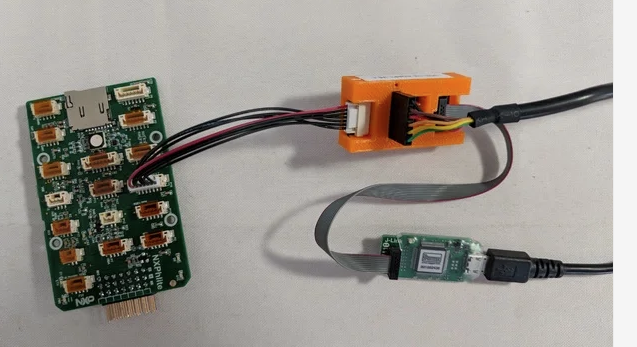
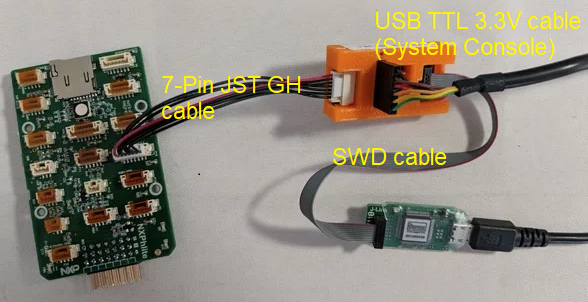
Tidy up

diff --git a/en/debug/jtag_pins.md b/en/debug/jtag_pins.md
@@ -1,18 +1,29 @@
-# JTAG Hardware Connections for PX4 Hardware (Debug Port)
+# Hardware Debug Interfaces (Debug Port)
 
-PX4 runs on hardware that exposes a [JTAG interface in SW mode](https://en.wikipedia.org/wiki/JTAG), which can be used for on-hardware debugging.
+PX4 runs on hardware that typically provides at least two interfaces for on-target (hardware) debugging:
+- **ARM Serial Wire Debug (SWD) interface**: This is an ARM-processor alternative to the JTAG interface.
+  It is used for debugging firmware, and can also be used to add a new bootloader and/or firmware on a completely empty board (that does not have the USB bootloader installed).
+- **[System Console](../debug/system_console.md) (UART)**: The system console provides low-level access to the system, debug output and analysis of the system boot process (other consoles are available from telemetry/USB etc, but these do not provide such early access to boot sequence information).
 
-This topic explains how to connect to the JTAG interface on various boards.
-Using JTAG for debugging is then covered in other topics (e.g [MCU Eclipse/J-Link Debugging for PX4](../debug/eclipse_jlink.md)).
+On Pixhawk-series boards these interfaces are usually exposed through a single port (though older boards may separate them).
+On other boards, these may be separate.
 
-> **Tip** The Segger [J-Link EDU Mini](https://www.segger.com/products/debug-probes/j-link/models/j-link-edu-mini/) is an inexpensive J-Link adapter.
-  [![Segger JLink EDU Mini Pinout](../../assets/debug/jlink_edu_mini.jpg)](ttps://www.segger.com/products/debug-probes/j-link/models/j-link-edu-mini/)
+> **Tip** Some boards may include additional interfaces.
+  For example, Pixhawk FMUv5 will support Google ARM ETM Trace through a separate interface.
+  
+This topic explains how to connect the system console, SWD interface, and other interfaces on different boards (actually performing the debugging is then covered in the associated [debugging topics](#debugging_topics)).
 
+## Interface Overview
 
-## JTAG SW Modes Pins
+### System Console
 
-PX4 requires the following pins for JTAG.
-The pins should be connected on the corresponding pins of the flight controller board and JTAG device.
+The PX4 *System Console* is simply a UART that has specifically been configured for this purpose (in NuttX) on a particular board.
+You will need to connect the TX, RX and GND to your computer, either via an FTDI cable (converts UART TX/RX to USB serial), [Dronecode Probe](#dronecode_probe), or similar adapter.
+
+### Serial Wire Debug (SWD) Interface
+
+PX4 requires the following pins for SWD.
+The pins should be connected on the corresponding pins of the flight controller board and SWD/JTAG device.
 
 Pin | Signal Type | Description
 --- | --- | ---
@@ -33,31 +44,94 @@ TRACEDATA[0] | Input | Input Trace data pin 0 (called TRACED0 in Pixhawk FMUv5x)
 >  **Note** The information above is reproduced from [J-Link / J-Trace User Guide: UM08001 > 18.1.2 Pinout for SW Mode](https://www.segger.com/downloads/jlink/UM08001) (Software Version: 6.54).
 
 
-## Pixhawk Series
+## Adapters and Wiring {#adapters_and_wiring}
 
-[Pixhawk series](https://docs.px4.io/master/en/flight_controller/pixhawk_series.html) boards provide access to JTAG through the **Pixhawk Debug Port**.
-The physical connector and pin order for this port varies across Pixhawk FMU versions.
+Where possible, we highly recommend that you use adapter boards rather than custom cables for connecting to SWD/JTAG debuggers and computers.
+This reduces the risk or poor wiring contributing to debugging problems, and has the benefit that adapters usually provide a common interface for connecting to multiple popular flight controller boards.
 
-> **Note** The **Pixhawk Debug Port** also exposes a UART for access to the [System Console](../debug/system_console.md) (a console that provides low-level access to the system, debug output and analysis of the system boot process).
+The following section outlines some of the available adaptors, and the boards you might use with them.
 
-<!--
-### FMUv2
+### Dronecode Probe (Adapter) {#dronecode_probe}
 
-Does this have a debug port? where is spec
-Is it a Hirose DF13
+[Dronecode Probe](https://kb.zubax.com/display/MAINKB/Dronecode+Probe+documentation) is a generic JTAG/SWD + UART console adapter compatible with most ARM Cortex based designs and in particular with the hardware maintained by the Dronecode project.
+
+The probe's USB interface exposes two separate virtual serial port interfaces: one for connecting to the System Console (UART) and the other for an embedded GDB server (SWD interface).
+The probe is compliant with the [Pixhawk Connector Standard](https://pixhawk.org/pixhawk-connector-standard/) and provides cabling to connect to the [Pixhawk Debug port](https://pixhawk.org/pixhawk-connector-standard/#dronecode_debug), which is used on many Pixhawk flight controllers.
+
+This can directly be used with:
+- Dronecode connector (6-pos JST SM06B connector to DEBUG port).
+  - [mRo Pixracer](https://docs.px4.io/master/en/flight_controller/pixracer.html#debug-port-jst-sm06b-connector) (FMUv4)
+  - [Drotek Pixhawk v3](https://drotek.gitbook.io/pixhawk-3-pro/hardware/inputs-outputs) (FMUv4pro)
+  - [Holybro Pixhawk 4](https://docs.px4.io/master/en/flight_controller/pixhawk4.html#debug-port) (FMUv5)
+  - [Holybro Pixhawk 4 mini](https://docs.px4.io/master/en/flight_controller/pixhawk4_mini.html#debug-port) (FMUv5)
+  - [CUAV V5](https://docs.px4.io/master/en/flight_controller/cuav_v5.html#debug-port)
+  
+  
+  - [CUAV V5+](https://docs.px4.io/master/en/flight_controller/cuav_v5_plus.html#debug-port)  [Using JTAG for Hardware debugging](
+  
+  - [CUAV V5 nano]()
+
+- 6-pos DF13 1:1 cable on the Dronecode probe to the Pixhawk SERIAL4/5 port.
+  **Note** This allows you to debug the System Console only.
+
+> **Note** The *Dronecode Probe* is based on the [Black Magic Probe](#black_magic_probe).
+  
+### Black Magic Probe {#black_magic_probe}
+
+The [Black Magic Probe](https://github.com/blacksphere/blackmagic/wiki) offers similar SWD debug-functionality to the [Dronecode probe](#dronecode_probe).
+However this is not designed with Pixhawk standards in mind, so specific custom cabling will be required to interface with the SWD port (and to separately expose the *System Console*).
+
+### NXP Debug Adapter {#nxp_dapter}
+
+NXP provide a debug adaptor for the [Hovergames RDDRONE-FMUK66](#fmuk66) (see below).
+This connects to the RDDRONE-FMUK66 using a 7-pin JST-GH connector and splits out an SWD cable and UART cable (for the system console).
+
+![Debug RDDRONE-FMUK66 using Jlink and debug interface](../../assets/debug/jlink_hovergames.png)
+
+This can directly be used with:
+* [Hovergames RDDRONE-FMUK66](#fmuk66)
 
 
-### FMUv3
+### Custom Cables
 
-Does this have a debug port? where is spec
-Is it a Hirose DF13
--->
+You can also create or build your own cables for the board you want to use (some might have a "Pixkawk debug connector" while others might have special connectors, or just pads.
 
-### FMUv4/FMUv5
+![Cables](../../assets/debug/just_cables.jpg)
 
-FMU V4,5 has a 6 pin JST GH
+> **Note** If you only want to use the console, or only SWD, there is nothing to stop you just connecting to the relevant pins for each interface.
 
-[Pixracer](http://docs.px4.io/master/en/flight_controller/pixracer.html#pinouts): [Pixhawk debug port](https://pixhawk.org/pixhawk-connector-standard/#dronecode_debug) (JST SM06B connector)
+
+## Pixhawk Series {#pixhawk_series}
+
+[Pixhawk-series](https://docs.px4.io/master/en/flight_controller/pixhawk_series.html) boards from FMUv3 provide access to both SWD and System Console interfaces through a single FMU **DEBUG** port.
+This can be used to load new bootloader/FMU Firmware and perform on-hardware SWD debugging on the FMU, or to access the System Console.
+
+The **DEBUG** has changed and standardised across versions (so no single connector works on all boards)
+- P  [Pixhawk debug port](https://pixhawk.org/pixhawk-connector-standard/#dronecode_debug) (JST SM06B connector).
+
+> **Note** Many boards may also expose a separate DEBUG port for the IO board.
+  This may be used to load a new bootloader or IO firmware.
+  It can also be used to debug IO (this is rare).
+
+
+### FMUv3 Pro
+
+FMUv3 Pro (and specifically the ) specifies the [Pixhawk debug port](https://pixhawk.org/pixhawk-connector-standard/#dronecode_debug) (JST SM06B connector).
+
+You can therefore connect to it using a [Dronecode probe](#dronecode_probe) or other cabling or adapter that provides access to the interfaces.
+
+
+### FMUv3 Pro FMUv4/FMUv5
+
+FMUv4 and FMUv5 specify the [Pixhawk debug port](https://pixhawk.org/pixhawk-connector-standard/#dronecode_debug).
+You can therefore connect to it using a [Dronecode probe](#dronecode_probe) or other cabling or adapter that provides access to the interfaces.
+
+Applicable boards include:
+- Drotek Pixhawk 3 Pro (FMUv3pro)
+- [mRo Pixracer](http://docs.px4.io/master/en/flight_controller/pixracer.html#pinouts) (FMUv4)
+
+
+The debug port (JST SM06B connector) is documented for each board, and has the following pinout:
 
 Pin | Signal | Volt
 --- | --- | ---
@@ -71,11 +145,11 @@ Pin | Signal | Volt
 
 ### FMUv5X
 
-FMUv5X will have a [10-pin JST SUR](https://order.jst-mfg.com/InternetShop/app/index.php?back=2&product=53574000&jgcd=0#showProductDetail).
-It adds JTAG pins: SWO, nRST. TRACECLK, TRACED0 Pins 7 and 8 are GPIOS to gate timing or 1 wire trace (full trace is on).
-<!-- is this link/example correct type for connector? -->
+FMUv5X will have a new debug port definition, which uses a [10-pin JST SUR](https://www.digikey.com/product-detail/en/jst-sales-america-inc/A10SUR10SUR32W152B/455-4015-ND).
 
-FMU Debug Port Pinout
+The new pinout adds additional SWD pins: SWO, nRST. It also adds TRACECLK, TRACED0 (Pins 7 and 8) which are are GPIOS to gate timing or 1 wire trace (Google ARM ETM).
+
+The FMUv5x debug port pinout is:
 
 Pin | Signal | Volt
 --- | --- | ---
@@ -91,31 +165,77 @@ Pin | Signal | Volt
 10 (blk) | GND | GND
 
 
-> **Note** This board will have an additional 8-pin JST SUR for ARM ETM TRACE).
+> **Note** This board will have an additional/separate 8-pin JST SUR for ARM ETM TRACE).
 
 
 ## Hex Cube
+
+TBD
+
+<!-- 
 
 Cube debug port information can be found here: [Debug ports](http://docs.px4.io/master/en/flight_controller/pixhawk-2.html#debug-ports).
 
 If pulled apart the Cube has a 6 pin JST SUR connector (marked as J10) for both FMU and IO debugging.
 
-<!--
-Does the numbering match all the other 6 pin port examples.
-What label is the IO port marked as?
-So obviously it is much easier to just connect to the carrier board port. Who would know what interface that is. PhilipR?
 -->
 
 
-## Kakute F7
+## FMUv2
 
-There are Test points on the board.
-<!-- I take that to mean that there are SWDIO etc pins somewhere. How do I find out where? -->
-
-UART3 RX and TX are configured for System console. 
+FMUv2-based boards did not have a standardised debug connector.
+Therefore access to the System Console and SWD interface is provided in different ways on different flight controller boards.
 
 
-## Hovergames RDDRONE-FMUK66
+### 3DR Pixhawk (1) {#pixhawk1}
+
+The [3DR Pixhawk 1] exposes the System Console and SWD interface though different ports.
+- The System Console is accessed through the SERIAL5 pins (on port labeled SERIAL4/5).
+  YOu can either use the Dronecode probe or an FTDI cable.
+- The SWD interface is hidden under the cover in the port between TELEM1 and GPS.
+  This can be connected using an ARM 10-pin JTAG connector.
+
+
+#### System Console via Dronecode Probe
+
+Connect the 6-pos DF13 1:1 cable on the [Dronecode probe](https://kb.zubax.com/display/MAINKB/Dronecode+Probe+documentation) to the SERIAL4/5 port of Pixhawk.
+
+![Dronecode probe](../../assets/console/dronecode_probe.jpg)
+
+#### System Console via FTDI 3.3V Cable
+
+An [FTDI 3.3V](http://www.digikey.com/product-detail/en/TTL-232R-3V3/768-1015-ND) (Digi-Key) can also be directly connected.
+
+Pixhawk 1/2 | | FTDI | |
+--- | --- | --- | ---
+1 | +5V (red) |   | N/C
+2 | S4 Tx     |   | N/C
+3 | S4 Rx     |   | N/C
+4 | S5 Tx     | 5 | FTDI RX (yellow)
+5 | S5 Rx     | 4 | FTDI TX (orange)
+6 | GND       | 1 | FTDI GND (black)
+
+The connector pinout is shown in the figure below.
+
+![Console Connector](../../assets/console/console_connector.jpg)
+
+The complete wiring is shown below.
+
+![Console Debug](../../assets/console/console_debug.jpg)
+
+
+
+## Other Boards
+
+### Kakute F7
+
+UART3 RX and TX are configured for System Console.
+
+There are test points for SWD debugging: TBD.
+<!-- Beat ? -->
+
+
+### Hovergames RDDRONE-FMUK66 {#fmuk66}
 
 The Hovergames RDDRONE-FMUK66 has a similar debug interface to Pixhawk (it supports an additional JTAG pin - nRST) and uses a JST-GH connector). 
 The debug interface is documented here: [RDDRONE-FMUK66 Debug interface](https://nxp.gitbook.io/hovergames/rddrone-fmuk66/connectors/debug-interface-dcd-lz)
@@ -125,6 +245,9 @@ The debug interface is documented here: [RDDRONE-FMUK66 Debug interface](https:/
 But what is the orange connector between them, and what is the connector out of the center of them doing? -->
 
 
-<!-- 
-What can you do with the FMU debug port but not IO port?
-Presumably debug the code that runs on each, but how do you work out what you can run on each? -->
+## Debugging Topics {#debugging_topics}
+
+After connecting the DEBUG interfaces, these topics explain how you can then perform on-target debugging:
+
+- [System Console](../debug/system_console.md)
+- [MCU Eclipse/J-Link Debugging for PX4](../debug/eclipse_jlink.md)

diff --git a/en/SUMMARY.md b/en/SUMMARY.md
@@ -90,7 +90,7 @@
 * [Debugging/Logging](debug/README.md)
   * [FAQ](debug/faq.md)
   * [System Console](debug/system_console.md)
-  * [JTAG Hardware Connections](debug/jtag_pins.md)
+  * [Hardware Debug Interfaces (Debug Port)](debug/jtag_pins.md)
   * [Autopilot Debugging](debug/gdb_debugging.md)
   * [Eclipse/JLink Hardware Debugging](debug/eclipse_jlink.md)
   * [Sensor/Topic Debugging](debug/sensor_uorb_topic_debugging.md)
